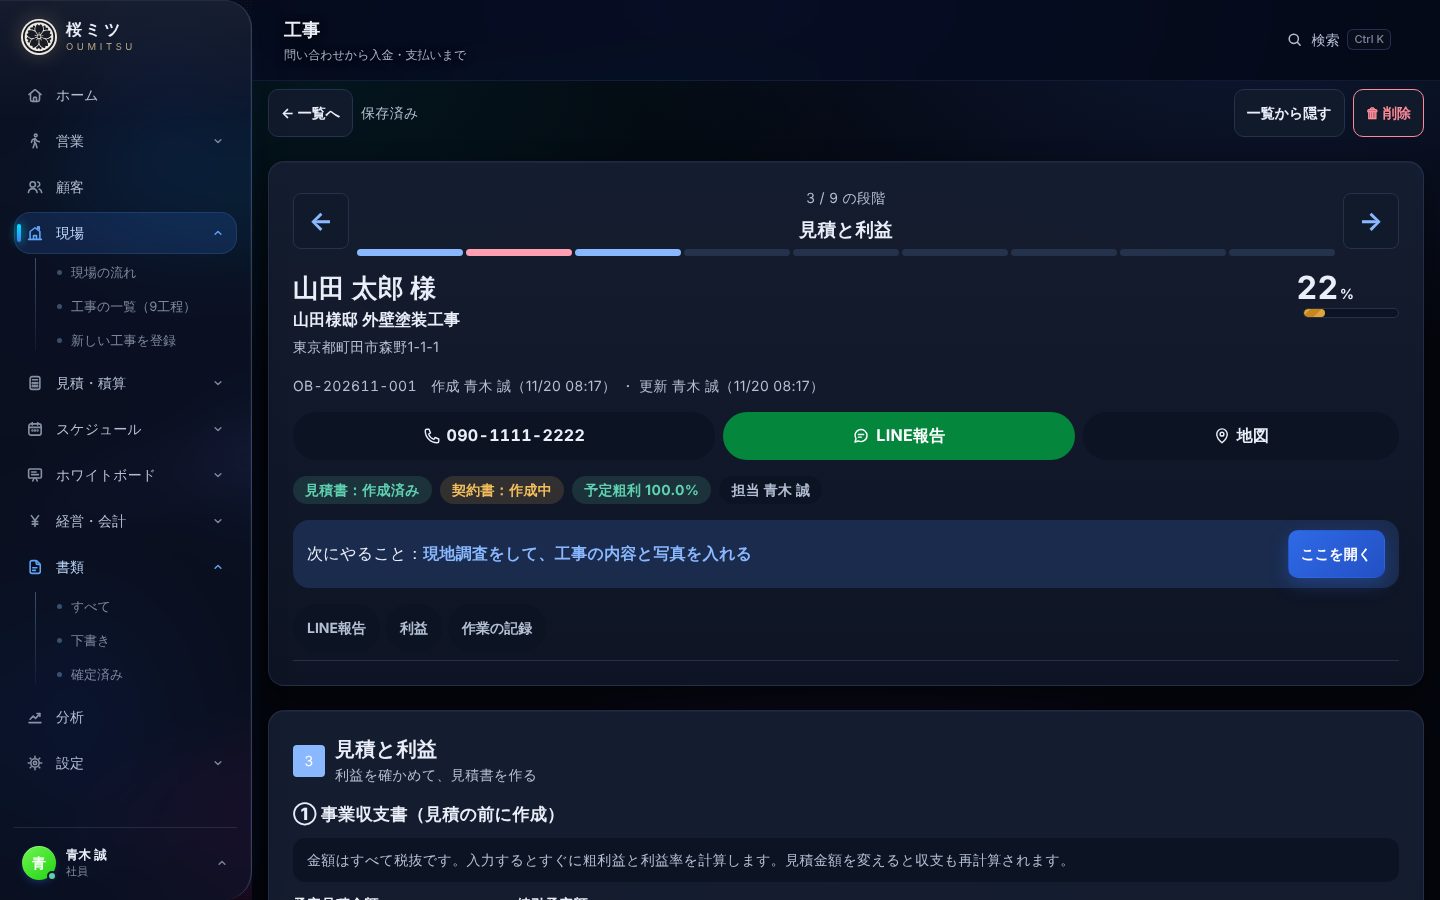
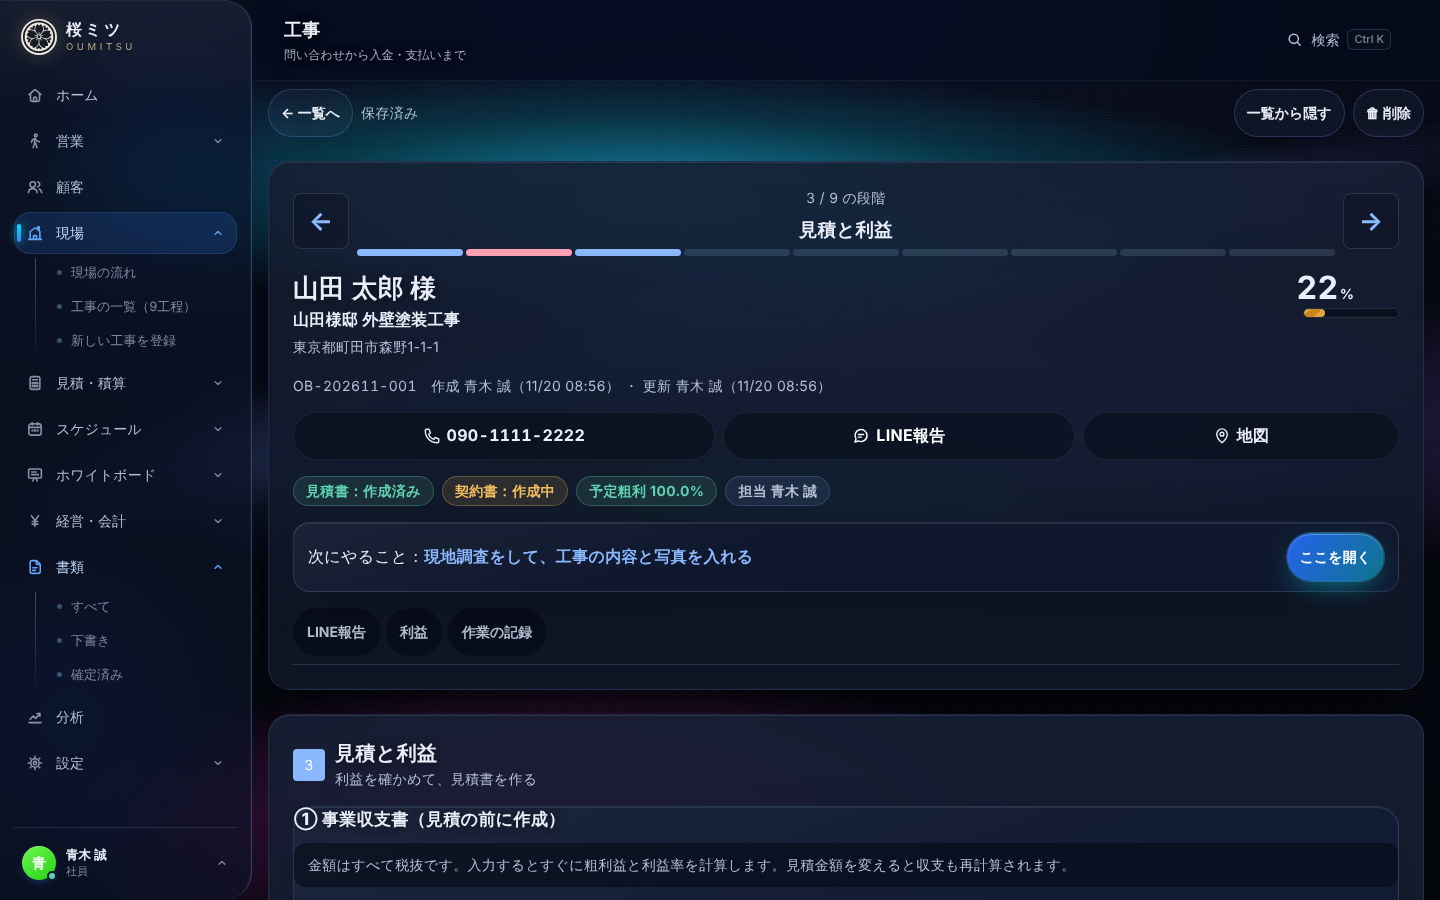
桜ミツ版：営業・ホワイトボード・カレンダー・工事の画面を、桜ミツのダッシュボードと同じ見た目に
- 地を透明にして、うしろの桜ミツのオーロラ（ネオンの光）を見せる
- カード・板はすりガラス（半透明・ぼかし・上辺の光・光る縁）、ボタンは桜ミツのカプセル型、主ボタンは青・水色・紫のネオンのグラデーション
- 営業の結果のボタン（不在・話せた・見込み・見送り）は色付きのすりガラス。昼の自動の明るい画面はやめ、「外で見やすく」を押したときだけ
- 入力欄は暗い半透明、押すと水色に光る
- 開いた直後に業務管理の最初の画面の知らせで桜ミツのホームへ戻ってしまう件を修正
- 濃さの確認（tests/web-a11y.js）：うしろの地の色を置いて測り、11画面×パソコン/スマホ×暗い所/明るく光る所で 0 か所

Claude-Session: https://claude.ai/code/session_011YfgaKNg5BLHuBJZ1Hhi4R

diff --git a/oubi/embed.css b/oubi/embed.css
@@ -1,9 +1,94 @@
-/* 桜ミツ版：桜ミツの中の枠に入れたときの見た目（見出しの帯・下のメニューは桜ミツの側） */
-html, body { background: transparent !important; }
-html:root body.sl-on.sl-sun { background: #F4F6FA !important; }
+/*
+ * 桜ミツ版：桜ミツの中の枠に入れたときの見た目
+ *   見出しの帯・メニューは桜ミツの側。地は透明にして、うしろの桜ミツのオーロラ（ネオンの光）を見せる。
+ *   カード・ボタン・入力欄は、桜ミツのダッシュボードと同じ作り（すりガラス・ネオンのグラデーション・光る縁）。
+ *   基準：文字と背景の差 4.5:1 以上（主ボタンの白い字は、濃い青・濃い水色・紫のグラデーションで 5:1 以上）
+ */
+:root:not([data-theme="light"]), :root[data-theme="dark"] {
+  --surface: rgba(12, 18, 34, .46); --sunk: rgba(4, 8, 18, .55); --line: rgba(186, 230, 253, .14);
+  --ink: #e9eef8; --muted: #b4bfd3; --blue: #8ab8ff; --blue-soft: rgba(77, 141, 255, .16);
+  --glass: rgba(12, 18, 34, .46); --glass-line: rgba(186, 230, 253, .14); --neon: #00E5FF;
+  --neon-grad: linear-gradient(120deg, #2563EB, #0E7490 55%, #7C3AED);
+}
+/* 地は透明（うしろの桜ミツのオーロラが見える） */
+html:root:not(.x), html:root:not(.x) body, html:root:not(.x) body.sl-on, html:root:not(.x) main, html:root:not(.x) #main { background: transparent !important; }
 header.top { display: none !important; }
 nav.tabs { display: none !important; }
 body.sl-on nav.tabs { display: flex !important; }        /* 営業の画面の下のボタン（記録・地図・再訪問…）は残す */
 main { padding-top: 8px !important; }
 #set-theme { display: none !important; }                  /* 画面の明るさは桜ミツの決まり（暗い画面） */
-.modebar { display: none !important; }                    /* 「試用モード」の帯は出さない（この端末だけの版） */
+.modebar { display: none !important; }
+
+/* ---------- すりガラスの板（桜ミツの .panel と同じ） ---------- */
+.panel, .ccard, .launch-btn, .tdb, .td-item, .ag-day, .sheet-item, .staff-card, .prow, .feed, .kpi, .big4 button, .wk, .alert, .lrow, .pk-item,
+.mcal, .filt, .appr, .file, .next, .bcard, .wb-day, .grp, .post, .sheet-box, .picker > *, .help-item,
+.sl-hud, .sl-det, .sl-rv, .sl-aw, .sl-me, .sl .empty, .sl-k, .sl-meter, .sl-steps, .sl-lead {
+  background: linear-gradient(160deg, rgba(255, 255, 255, .055), rgba(255, 255, 255, .01) 40%), var(--glass) !important;
+  -webkit-backdrop-filter: blur(24px) saturate(165%); backdrop-filter: blur(24px) saturate(165%);
+  border: 1px solid var(--glass-line) !important;
+  box-shadow: inset 0 1px 0 rgba(255, 255, 255, .08), inset 0 0 0 1px rgba(255, 255, 255, .015), 0 24px 50px -26px rgba(0, 0, 0, .75) !important;
+  transition: border-color .25s ease-out, box-shadow .25s ease-out, transform .25s ease-out;
+}
+.panel, .ccard, .launch-btn, .tdb, .staff-card, .feed, .wb-day, .mcal, .grp, .sl-hud, .sl-det, .sl-rv, .sl-aw, .sl-me, .post { border-radius: 22px !important; }
+.ccard:hover, .launch-btn:hover, .wk:hover, .lrow:hover, .bcard:hover, .staff-card:hover, .td-item:hover, .sl-k:hover {
+  border-color: rgba(125, 249, 255, .26) !important;
+  box-shadow: inset 0 1px 0 rgba(255, 255, 255, .1), 0 0 0 1px rgba(0, 229, 255, .05), 0 24px 50px -26px rgba(0, 0, 0, .75), 0 0 34px -18px rgba(0, 229, 255, .55) !important;
+}
+/* 板の中の小さい区切り（明細・予定の吹き出し・カレンダーの日） */
+.calc div, .wb-b, .mcal .md, .sl-prev, .sl-badge, .quick a, .tdb-cs, .sl-bar, .sl-mb {
+  background: rgba(4, 8, 18, .45) !important; border: 1px solid rgba(186, 230, 253, .08);
+}
+.wb-msg.mine .wb-b, .mcal .md.sel { background: rgba(0, 229, 255, .10) !important; border-color: rgba(0, 229, 255, .45) !important; box-shadow: 0 0 18px -6px rgba(0, 229, 255, .55) !important; }
+.mcal .md.out { background: transparent !important; border-color: transparent; }
+.mcal .md.today span, .cal .d.today .dn { background: var(--neon-grad) !important; color: #fff !important; box-shadow: 0 0 12px rgba(0, 229, 255, .5); }
+
+/* ---------- ボタン（桜ミツのカプセル型・ネオン） ---------- */
+.btn, .sl .btn, .sl-mini, .chipbtn, .sl .chipbtn {
+  border-radius: 999px !important; background: rgba(130, 165, 255, .06) !important; border: 1px solid rgba(130, 165, 255, .22) !important; color: var(--ink) !important;
+  transition: transform .12s, box-shadow .25s, border-color .25s, background .25s;
+}
+.btn:hover, .sl-mini:hover, .chipbtn:hover { box-shadow: 0 0 0 1px rgba(0, 229, 255, .25), 0 8px 24px -10px rgba(0, 229, 255, .55) !important; border-color: rgba(0, 229, 255, .35) !important; }
+.btn.pri, .sl .btn.pri, .launch-btn.sales, .launch-btn.new, .gate-go, .chipbtn.on, .sl .chipbtn.on, .sl-mini[aria-pressed="true"], .sl .seg button[aria-pressed="true"], .subtabs button[aria-current="step"] {
+  background: var(--neon-grad) !important; background-size: 200% 100% !important; border-color: transparent !important; color: #fff !important;
+  box-shadow: 0 1px 0 rgba(255, 255, 255, .25) inset, 0 10px 30px -10px rgba(0, 229, 255, .6), 0 0 0 1px rgba(125, 249, 255, .25) !important;
+  transition: background-position .5s ease-out, transform .12s, box-shadow .25s;
+}
+.btn.pri:hover, .launch-btn.sales:hover { background-position: 100% 50% !important; box-shadow: 0 1px 0 rgba(255, 255, 255, .3) inset, 0 10px 30px -8px rgba(0, 229, 255, .75), 0 0 0 1px rgba(125, 249, 255, .35) !important; }
+.launch-btn.sales small, .launch-btn.sales .lb-ic { color: #fff !important; }
+
+/* ---------- 入力欄（暗い半透明・押すと水色に光る） ---------- */
+.fld input, .fld select, .fld textarea, input.btn, select.btn, .sl textarea, .sl input, #fq, #wq, #gs-q, textarea, select {
+  background: rgba(4, 8, 18, .55) !important; border: 1.5px solid #7f90b4 !important; color: var(--ink) !important; border-radius: 12px !important;
+}
+.fld input:focus, .fld select:focus, .fld textarea:focus, .sl textarea:focus, .sl input:focus, textarea:focus, select:focus, input:focus {
+  border-color: var(--neon) !important; box-shadow: 0 0 0 3px rgba(0, 229, 255, .16), 0 0 22px rgba(0, 229, 255, .28) !important; outline: none;
+}
+
+/* ---------- 営業の画面：結果のボタンを、色付きのすりガラスに ---------- */
+.sl { --sbg: transparent; --ssf: rgba(12, 18, 34, .46); --ssf2: rgba(4, 8, 18, .55); --sline: rgba(186, 230, 253, .16); --spri: #2563EB; }
+.sl:not(.sun) .sl-card {
+  background: linear-gradient(160deg, rgba(255, 255, 255, .07), rgba(255, 255, 255, .01) 45%), linear-gradient(160deg, var(--gl1), var(--gl2)) !important;
+  -webkit-backdrop-filter: blur(24px) saturate(165%); backdrop-filter: blur(24px) saturate(165%);
+  border: 1px solid var(--gll) !important; border-radius: 22px !important;
+  box-shadow: inset 0 1px 0 rgba(255, 255, 255, .1), 0 24px 50px -26px rgba(0, 0, 0, .75), 0 0 30px -16px var(--glw) !important;
+}
+.sl:not(.sun) .sl-card:hover { transform: translateY(-2px); box-shadow: inset 0 1px 0 rgba(255, 255, 255, .14), 0 24px 50px -26px rgba(0, 0, 0, .75), 0 0 40px -10px var(--glw) !important; }
+.sl-card.r1 { --gl1: rgba(148, 163, 184, .16); --gl2: rgba(12, 18, 34, .5); --gll: rgba(203, 213, 225, .22); --glw: rgba(148, 163, 184, .5); }
+.sl-card.r2 { --gl1: rgba(59, 130, 246, .26); --gl2: rgba(12, 18, 34, .5); --gll: rgba(125, 211, 252, .32); --glw: rgba(0, 229, 255, .6); }
+.sl-card.r3 { --gl1: rgba(16, 185, 129, .22); --gl2: rgba(12, 18, 34, .5); --gll: rgba(110, 231, 183, .3); --glw: rgba(43, 255, 184, .5); }
+.sl-card.r4 { --gl1: rgba(139, 92, 246, .26); --gl2: rgba(12, 18, 34, .5); --gll: rgba(196, 181, 253, .3); --glw: rgba(139, 92, 246, .6); }
+.sl-card .sl-ic { background: rgba(255, 255, 255, .08) !important; box-shadow: inset 0 0 0 1px rgba(255, 255, 255, .1), 0 0 18px -6px var(--glw); }
+.sl-bar i { background: linear-gradient(90deg, #3B82F6, #06B6D4, #2BFFB8) !important; box-shadow: 0 0 12px rgba(0, 229, 255, .6); }
+/* 営業の下のボタン（スマホ）：桜ミツの帯と同じすりガラス */
+body.sl-on nav.tabs { background: rgba(6, 9, 18, .55) !important; -webkit-backdrop-filter: blur(18px) saturate(150%); backdrop-filter: blur(18px) saturate(150%); border-top: 1px solid rgba(186, 230, 253, .14) !important; }
+body.sl-on nav.tabs button[aria-current="page"]::before { background: linear-gradient(90deg, #00E5FF, #3B82F6) !important; box-shadow: 0 0 10px rgba(0, 229, 255, .8); }
+
+/* ---------- チップ・見出し ---------- */
+.chip { background: rgba(130, 165, 255, .1) !important; border: 1px solid rgba(130, 165, 255, .22); }
+.chip.ok { background: rgba(95, 208, 176, .12) !important; border-color: rgba(95, 208, 176, .3); }
+.chip.warn { background: rgba(242, 189, 92, .12) !important; border-color: rgba(242, 189, 92, .3); }
+.chip.bad { background: rgba(255, 122, 138, .12) !important; border-color: rgba(255, 122, 138, .3); }
+h1, h2, h3 { text-shadow: 0 1px 10px rgba(0, 0, 0, .6); letter-spacing: .02em !important; }
+
+/* 業務管理のホームは桜ミツのホーム（ウィジェット）に替わるので、枠の中では描かない */
+body[data-obtab="home"] main { visibility: hidden; }

diff --git a/oubi/link.js b/oubi/link.js
@@ -32,11 +32,11 @@
     if ((tries || 0) > 150) { U && EE.fx.toast('業務管理の画面を読み込めませんでした。再読み込みしてください', { warn: true, ms: 5000 }); return; }
     setTimeout(function () { whenFrame(fn, (tries || 0) + 1); }, 100);
   }
-  var lastSent = '';
+  var lastSent = '', goAt = 0;
   function go(parts) {
-    var tab = parts[0] || 'list';
+    var tab = parts[0] || 'list'; goAt = Date.now();
     whenFrame(function (o) {
-      lastSent = tab;
+      lastSent = tab; goAt = Date.now();
       if (tab === 'case' && parts[1]) o.openCase(parts[1], SEC[parts[2]] || parts[2] || undefined);
       else if (tab === 'new') o.newQuick();
       else if (tab === 'sales') o.go(parts[1] ? 'sales:' + parts[1] : 'sales');
@@ -47,13 +47,16 @@
   root.OUBI_LINK = {
     /** app.js の parse() から：#/o/<画面>/... */
     route: function (parts) {
+      goAt = Date.now(); lastSent = parts[0] || 'list';   // 切り替えを始めた時から、業務管理の「ホームを描いた」の知らせは無視する
       var pg = page(parts[0] || 'list');
       return { nav: pg[2], view: function () { return { title: pg[0], crumb: pg[1], html: '', oubi: true, mount: function () { go(parts); } }; } };
     },
     /** 業務管理の画面が描かれるたびに（embed.js から） */
     onTab: function (tab, cur) {
       if (!/^#\/o\//.test(location.hash)) return;            // 桜ミツの画面にいるときは、うしろの業務管理の動きで画面を変えない
-      if (tab === 'home') { location.hash = '#/home'; return; }   // 業務管理の「ホーム」は桜ミツのホーム（ウィジェット）
+      // 開いた直後に届く「ホームを描いた」は、業務管理の最初の画面なので無視する（こちらから画面を指定している途中）
+      if (tab === 'home' && lastSent !== 'home' && Date.now() - goAt < 2000) return;
+      if (tab === 'home') { document.body.classList.remove('ob-on'); location.hash = '#/home'; return; }   // 業務管理の「ホーム」は桜ミツのホーム（ウィジェット）。枠はすぐ隠す
       var h = tab === 'case' && cur && cur.caseId ? '#/o/case/' + cur.caseId : '#/o/' + tab;
       if (h.split('/').slice(0, 3).join('/') !== location.hash.split('/').slice(0, 3).join('/') || (tab === 'case' && h !== location.hash)) {
         EE.app.replaceRoute(h);

diff --git a/oubi/tests/web-a11y.js b/oubi/tests/web-a11y.js
@@ -1,0 +1,24 @@
+const { chromium } = require('playwright'); const openWeb = require('./_web');
+const AXE = require('fs').readFileSync(require.resolve('axe-core/axe.min.js'), 'utf8');
+(async () => {
+  const b = await chromium.launch(); let tot = 0;
+  for (const bg of ['#04060d', '#1e2a52']) for (const vp of [{ width: 1440, height: 900 }, { width: 390, height: 844 }]) {
+    const p = await openWeb(b, { viewport: vp, wait: 3500 });
+    await p.evaluate(() => { const o = OUBI_LINK.frame().contentWindow.OUBI; const c = o.makeCase({ customer: '山田 太郎', tel: '090' }); c.work.title = '山田様邸'; o.touch(c); }); await p.waitForTimeout(1200);
+    const cid = await p.evaluate(() => OUBI_LINK.frame().contentWindow.OUBI.cases()[0].id);
+    for (const h of ['#/o/sales', '#/o/sales/rv', '#/o/sales/rank', '#/o/wb', '#/o/board', '#/o/cal', '#/o/list', '#/o/case/' + cid, '#/o/dash', '#/o/settings', '#/o/staff']) {
+      await p.evaluate(h => { location.hash = h; }, h); await p.waitForTimeout(1800);
+      const f = p.frames().find(f => /oubi\.html/.test(f.url()));
+      const r = await f.evaluate(async ([src, bg]) => {
+        if (!window.axe) eval(src);
+        // 後ろの桜ミツの地（オーロラ）の色を、測るときだけ枠の地に置く
+        const st = document.createElement('style'); st.textContent = 'html:root:not(.x){background:' + bg + ' !important}'; document.head.appendChild(st);
+        const res = await axe.run(document, { runOnly: ['color-contrast'], resultTypes: ['violations'] }); st.remove();
+        return (res.violations[0] || { nodes: [] }).nodes.map(n => n.target.join(' ') + ' :: ' + ((n.any[0] || {}).message || '').slice(0, 120));
+      }, [AXE, bg]);
+      tot += r.length; if (r.length) { console.log(bg, vp.width, h.replace(cid, 'id'), r.length); r.slice(0, 4).forEach(x => console.log('   ', x)); }
+    }
+    await p.close();
+  }
+  console.log('合計', tot); await b.close();
+})();

diff --git a/oubi/embed.js b/oubi/embed.js
@@ -9,6 +9,8 @@
   var P = window.parent !== window ? window.parent : null;
   window.OUBI_EMBED = true;
   document.documentElement.setAttribute('data-theme', 'dark');   // 桜ミツは暗い画面だけ
+  // 営業の画面は、桜ミツのダッシュボードと同じ暗い画面に（昼の自動切り替えはしない。「外で見やすく」を押したときだけ明るく）
+  try { if (localStorage.getItem('oubi.slsun') == null) localStorage.setItem('oubi.slsun', '0'); } catch (e) {}
   function H() { return (P && P.OUBI_HOST) || null; }
   window.OUBI_HOST = {
     start: function () {}, mountHome: function () {},
@@ -24,6 +26,7 @@
     open: function (hash) { var h = H(); if (h) h.open(hash); }
   };
   window.SUPA_AFTER_RENDER = function (tab) {
+    document.body.setAttribute('data-obtab', tab);   // 業務管理のホームは描かない（桜ミツのホームに替わる）
     try { if (P && P.OUBI_LINK) P.OUBI_LINK.onTab(tab, window.OUBI && window.OUBI.cur ? window.OUBI.cur() : { tab: tab }); } catch (e) {}
   };
 })();
